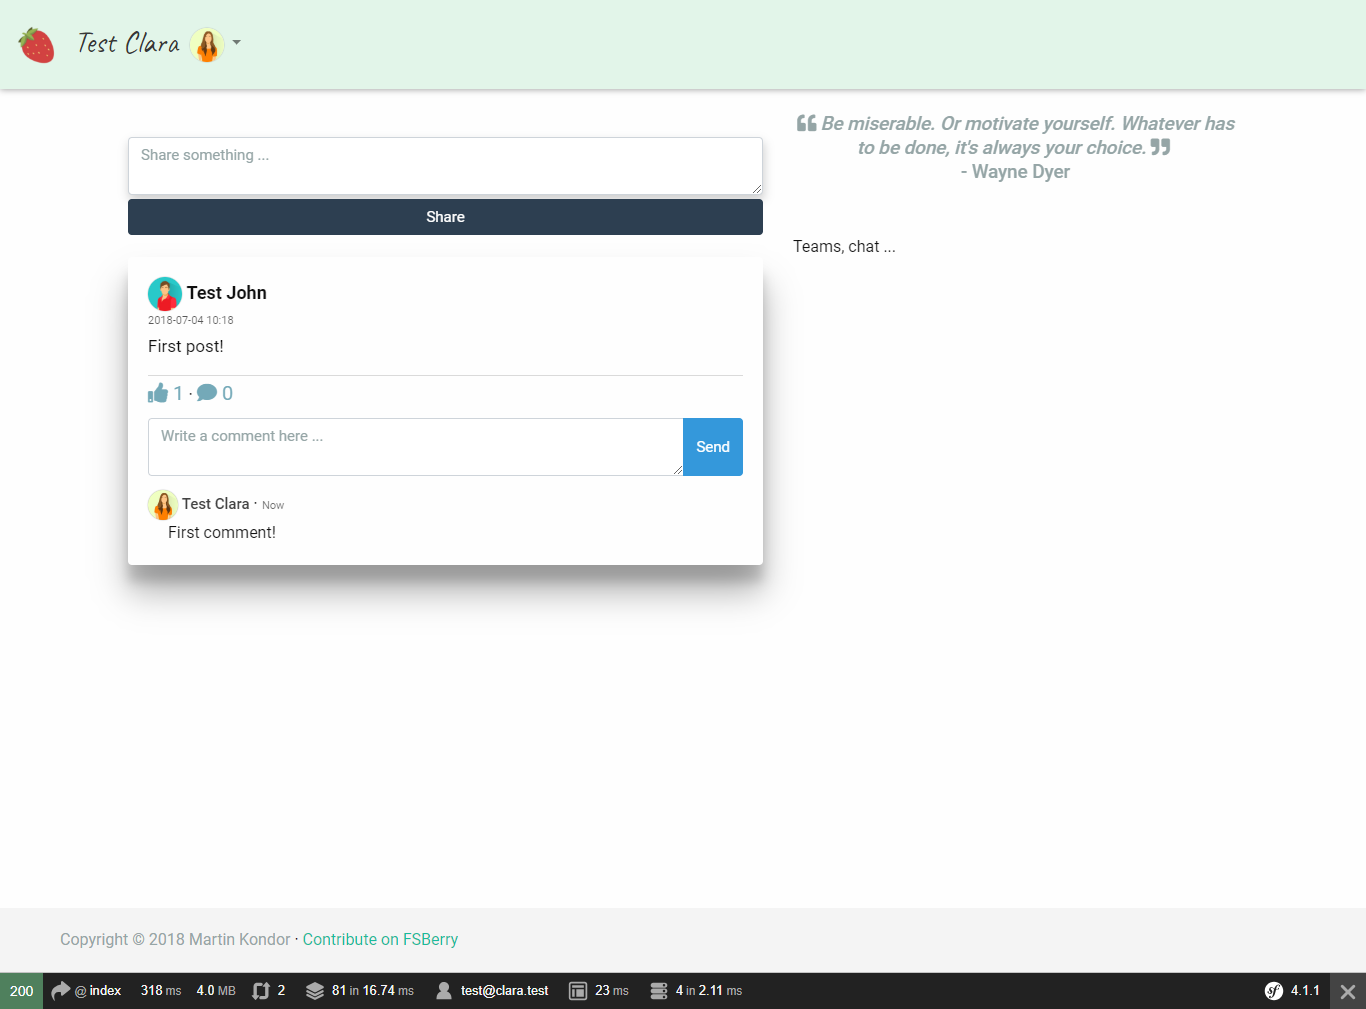
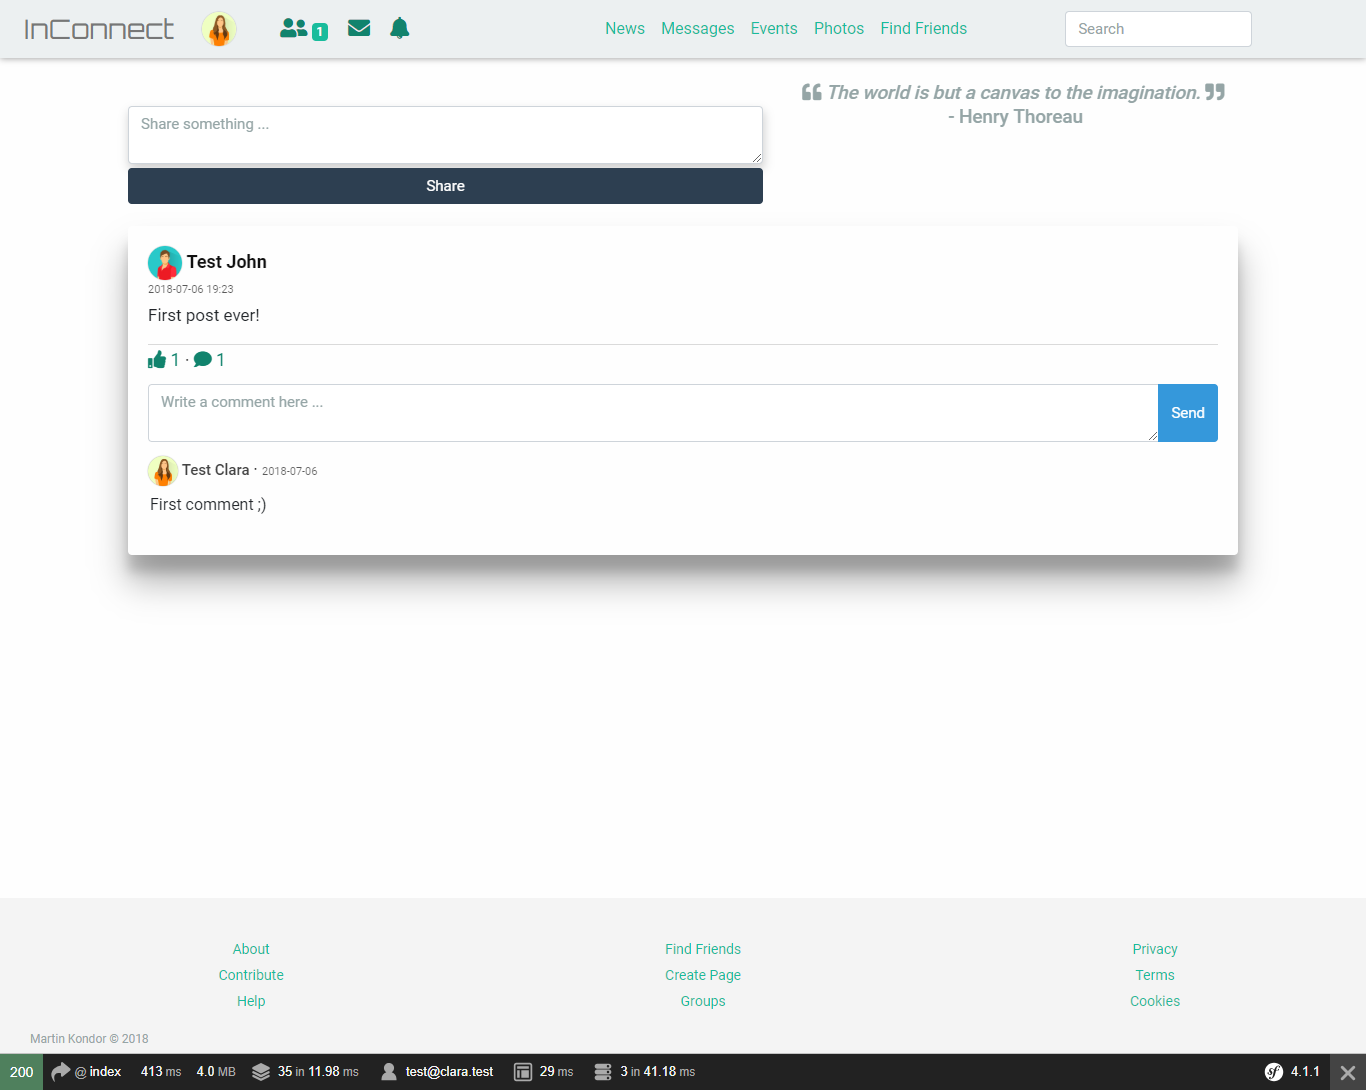
Notification mute and examples

diff --git a/public/javascripts/navbar.js b/public/javascripts/navbar.js
@@ -39,9 +39,13 @@
                         if (general['what'] === 'comment') what = 'You got a new Comment!';
                         if (general['what'] === 'upvote') what = 'You got a new Upvote!';
 
+                        console.log(general['deleteLink'])
+
                         generalData += `
                         <li class="mb-3 pl-1 pr-1">
-                            <button class="btn btn-link text-danger mb-0 mt-0">X</button>
+                            <form action="${general['deleteLink']}" method="POST">
+                                <button type="submit" class="btn btn-link text-danger mb-0 mt-0">X</button>
+                            </form>
                             <a href="${general['link']}">
                                 <button class="btn btn-link">
                                     <span class="font-weight-bold">${what}</span>

diff --git a/public/javascripts/search.js b/public/javascripts/search.js
@@ -3,7 +3,7 @@
     let keyCounter = 0;
 
     $('#search-field').keypress(function() {
-        if (keyCounter % 2 !== 0 && $(this).val().length > 4) {
+        if (keyCounter % 2 !== 0 && $(this).val().length >= 2) {
             $.ajax({
                 method: 'POST',
                 url: $(this).attr('href'),

diff --git a/src/Controller/NotificationController.php b/src/Controller/NotificationController.php
@@ -2,13 +2,11 @@
 
 namespace App\Controller;
 
-use App\Entity\{ Friend, Action };
-use Symfony\Component\Routing\Annotation\Route;
+use App\Entity\{ Action };
 use Symfony\Bundle\FrameworkBundle\Controller\Controller;
-use Symfony\Component\HttpFoundation\JsonResponse;
-use Symfony\Flex\Response;
+use Symfony\Component\HttpFoundation\{ JsonResponse, Response };
+use Symfony\Component\Routing\Annotation\Route;
 
-// The cachers of these are in the navbar.js
 class NotificationController extends Controller
 {
     /**
@@ -61,6 +59,7 @@ class NotificationController extends Controller
                 if ($action->getActionType() === 'upvote' or $action->getActionType() === 'comment') {
                     $responseJson['counters']['general']++;
                     $responseJson['general'][] = [
+                        'deleteLink' => $this->generateUrl('mute_notification', [ 'actionId' => $action->getActionId() ]),
                         'link' => $this->generateUrl('view_post', [ 'postId' => $action->getEntityId() ]),
                         'when' => $action->getActionDate()->diff(new \DateTime()),
                         'what' => $action->getActionType()
@@ -70,5 +69,19 @@ class NotificationController extends Controller
             return new JsonResponse($responseJson);
         }
         return new JsonResponse([]);
+    }
+
+    /**
+     * @Route("/notification/mute/{actionId}", name="mute_notification", methods={ "POST" })
+     */
+    public function muteNotification($actionId)
+    {
+        $em = $this->getDoctrine()
+                ->getManager();
+        $action = $em->getRepository(Action::class)
+                ->findOneBy([ 'action_id' => $actionId ]);
+        $action->setSeenByUser('seen');
+        $em->flush();
+        return $this->redirectToRoute('index');
     }
 }

diff --git a/src/Controller/MainController.php b/src/Controller/MainController.php
@@ -84,7 +84,8 @@ class MainController extends Controller
                                         WHERE friend.user1_id = :user_id
                                         AND friend.status = 'friends'
                                         AND post.content IS NOT NULL
-                                        OR post.user_id = :user_id)
+                                        OR post.user_id = :user_id
+                                        GROUP BY post.post_id)
                                         ORDER BY post.date_of_upload DESC
                                         LIMIT 50");
         $query->execute([ ':user_id' => $this->getUser()->getUserId() ]);

diff --git a/.github/CONTRIBUTING.md b/.github/CONTRIBUTING.md
@@ -50,7 +50,7 @@ server and making changes on it.
 
 1. Star (very important ;)) and Fork this repository.
 2. Clone your forked repository.
-3. If you doesnt have, install an Apache server, MySQL server, PHP, and Composer:
+3. If you does'nt have, install an Apache server, MySQL server, PHP, and Composer:
 
    The easiest way of doing this is by downloading and installing [XAMP](https://www.apachefriends.org/hu/index.html),
    and [Composer](https://getcomposer.org/).
@@ -68,11 +68,8 @@ server and making changes on it.
    Create the database
    ```php bin/console doctrine:database:create```
 
-   Make a migration
-   ```php bin/console make:migration```
-
-   Create tables 
-   ```php bin/console doctrine:migrations:migrate```
+   Create schema
+   ```php bin/console doctrine:schema:create```
 
    Hit ```y```.
 
@@ -87,11 +84,14 @@ server and making changes on it.
     ```
     Email: test@clara.test
     Password: test
+    -
     Email: test@john.test
     Password: test
     ```
     
     Or Sign up and log in to your own user.
+    
+    Examples (Not final design):
     
     The homepage with the two default user and a created post:
     
